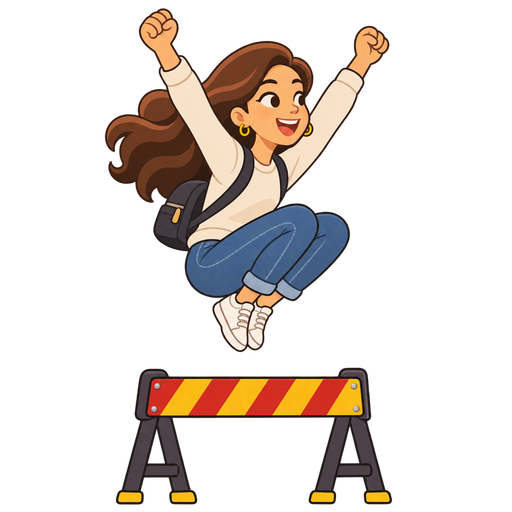
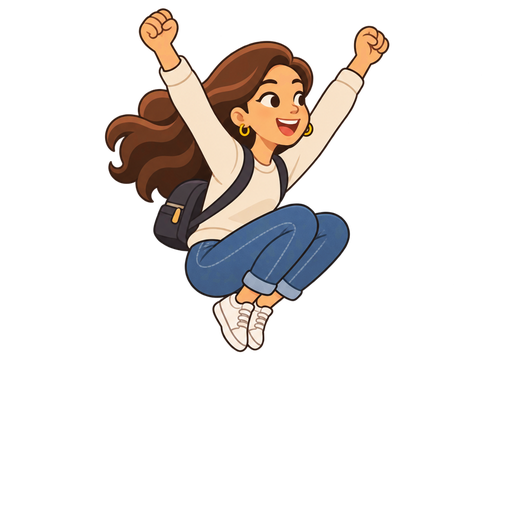
Word run: no barrier under the jump, word picture kept inside the box window, crisp option text; match game: no doubled text from shadows

Changed region(s): [[0.2188, 0.7188, 0.7812, 1.0]]

diff --git a/Sources/Features/Practice/MatchGameView.swift b/Sources/Features/Practice/MatchGameView.swift
@@ -259,8 +259,7 @@ struct MatchGameView: View {
             modeButton(.picture, t("match.mode.picture"))
         }
         .padding(5)
-        .background(Color.white, in: RoundedRectangle(cornerRadius: 18, style: .continuous))
-        .shadow(color: Self.edge, radius: 0, y: 3)
+        .background(RoundedRectangle(cornerRadius: 18, style: .continuous).fill(Color.white).shadow(color: Self.edge, radius: 0, y: 3))
     }
 
     private func modeButton(_ value: MatchMode, _ title: String) -> some View {
@@ -542,22 +541,19 @@ private struct MatchResultView: View {
                         Spacer(minLength: 0)
                     }
                     .padding(12)
-                    .background(Color.white, in: RoundedRectangle(cornerRadius: 20, style: .continuous))
-                    .shadow(color: Self.edge, radius: 0, y: 4)
+                    .background(RoundedRectangle(cornerRadius: 20, style: .continuous).fill(Color.white).shadow(color: Self.edge, radius: 0, y: 4))
                 }
 
                 HStack(spacing: 10) {
                     Button(action: finish) {
                         Text(t("match.finish")).font(.system(size: 16, weight: .bold, design: .rounded)).foregroundColor(Self.ink)
                             .frame(maxWidth: .infinity, minHeight: 56)
-                            .background(Color.white, in: Capsule())
-                            .shadow(color: Self.edge, radius: 0, y: 4)
+                            .background(Capsule().fill(Color.white).shadow(color: Self.edge, radius: 0, y: 4))
                     }
                     Button(action: again) {
                         Text(t("match.again")).font(.system(size: 16, weight: .heavy, design: .rounded)).foregroundColor(Self.ink)
                             .frame(maxWidth: .infinity, minHeight: 56)
-                            .background(DS.gold, in: Capsule())
-                            .shadow(color: Color(red: 0.79, green: 0.60, blue: 0.12), radius: 0, y: 4)
+                            .background(Capsule().fill(DS.gold).shadow(color: Color(red: 0.79, green: 0.60, blue: 0.12), radius: 0, y: 4))
                     }
                 }
                 .buttonStyle(.pressable)
@@ -578,8 +574,8 @@ private struct MatchResultView: View {
         }
         .frame(maxWidth: .infinity, alignment: .leading)
         .padding(14)
-        .background(dark ? Self.ink : Color.white, in: RoundedRectangle(cornerRadius: 20, style: .continuous))
-        .shadow(color: dark ? Color(red: 0.23, green: 0.23, blue: 0.21) : Self.edge, radius: 0, y: 4)
+        .background(RoundedRectangle(cornerRadius: 20, style: .continuous).fill(dark ? Self.ink : Color.white)
+            .shadow(color: dark ? Color(red: 0.23, green: 0.23, blue: 0.21) : Self.edge, radius: 0, y: 4))
         .accessibilityElement(children: .combine)
     }
 

diff --git a/Sources/Features/Practice/WordRunView.swift b/Sources/Features/Practice/WordRunView.swift
@@ -193,12 +193,20 @@ struct WordRunView: View {
 
     private var box: some View {
         let picture = questions.indices.contains(index) ? Covers.image(questions[index].item.picture) : nil
+        // The box picture's white window is a square of 51 % of the box, its middle 8.5 pt below the box's middle:
+        // the word picture sits on its own white card there, clipped, so it never spills over the box.
         return ZStack {
             if let image = RunArt.box { Image(uiImage: image).resizable().scaledToFit() }
             if let picture {
-                Image(uiImage: picture).resizable().scaledToFit()
-                    .frame(width: 50, height: 46)
-                    .offset(y: 7)
+                RoundedRectangle(cornerRadius: 9, style: .continuous)
+                    .fill(Color.white)
+                    .frame(width: 55, height: 55)
+                    .overlay(
+                        Image(uiImage: picture).resizable().scaledToFit()
+                            .frame(width: 47, height: 47)
+                    )
+                    .clipShape(RoundedRectangle(cornerRadius: 9, style: .continuous))
+                    .offset(y: 8.5)
             }
         }
         .frame(width: 112, height: 112)
@@ -298,11 +306,15 @@ struct WordRunView: View {
             }
             .padding(.horizontal, 12)
             .frame(maxWidth: .infinity, minHeight: 72)
-            .background(isRight ? Color(red: 0.867, green: 0.961, blue: 0.898) : (isWrong ? Color(red: 1, green: 0.894, blue: 0.894) : .white),
-                        in: RoundedRectangle(cornerRadius: 20, style: .continuous))
+            // The raised edge is drawn under the card only: a shadow on the whole button doubled the text.
+            .background(
+                RoundedRectangle(cornerRadius: 20, style: .continuous)
+                    .fill(isRight ? Color(red: 0.867, green: 0.961, blue: 0.898) : (isWrong ? Color(red: 1, green: 0.894, blue: 0.894) : .white))
+                    .background(RoundedRectangle(cornerRadius: 20, style: .continuous)
+                        .fill(Color(red: 0.886, green: 0.863, blue: 0.784)).offset(y: 5))
+            )
             .overlay(RoundedRectangle(cornerRadius: 20, style: .continuous)
                 .stroke(isRight ? DS.das : (isWrong ? Color(red: 0.89, green: 0.36, blue: 0.36) : .clear), lineWidth: 3))
-            .shadow(color: Color(red: 0.886, green: 0.863, blue: 0.784), radius: 0, y: 5)
         }
         .buttonStyle(.pressable)
         .disabled(phase != .waiting)

diff --git a/tools/images/runner_assets.py b/tools/images/runner_assets.py
@@ -24,6 +24,11 @@ SQUARES = ['lina-run-1', 'lina-run-2', 'lina-run-3', 'lina-run-4', 'lina-jump', 
            'lina-dance-1', 'lina-dance-2', 'lina-dance-3', 'lina-dance-4', 'lina-dance-5', 'lina-dance-6']
 
 
+# Parts Codex drew that the game draws itself: lina-jump came with a striped barrier under her feet (the prompt said
+# "over an obstacle"); everything below this share of the height is cleared (her shoes end above it).
+CLEAR_BELOW = {'lina-jump': 0.70}
+
+
 def backup(name):
     os.makedirs(KEEP, exist_ok=True)
     src = os.path.join(IMAGES, name)
@@ -42,6 +47,9 @@ def main():
             img = Image.open(original + '.cut.png').convert('RGBA')
             os.remove(original + '.cut.png')
         img = img.resize((512, 512), Image.LANCZOS)
+        if name in CLEAR_BELOW:
+            top = int(512 * CLEAR_BELOW[name])
+            img.paste((0, 0, 0, 0), (0, top, 512, 512))
         img.save(os.path.join(IMAGES, name + '.png'), optimize=True)
     far = backup('kosu-uzak.png')
     Image.open(far).convert('RGB').resize((1600, 800), Image.LANCZOS).save(os.path.join(IMAGES, 'kosu-uzak.jpg'), quality=84)
